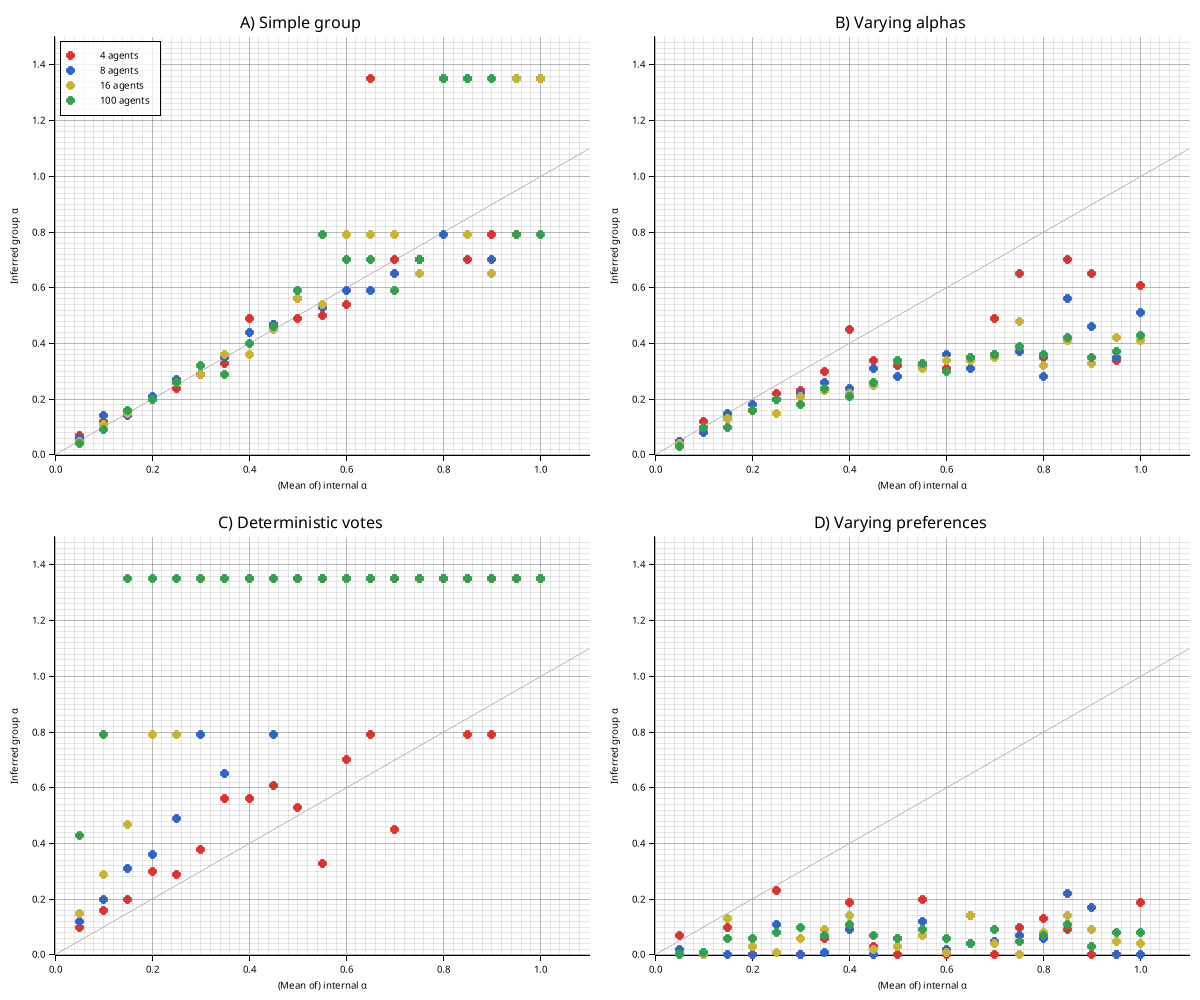
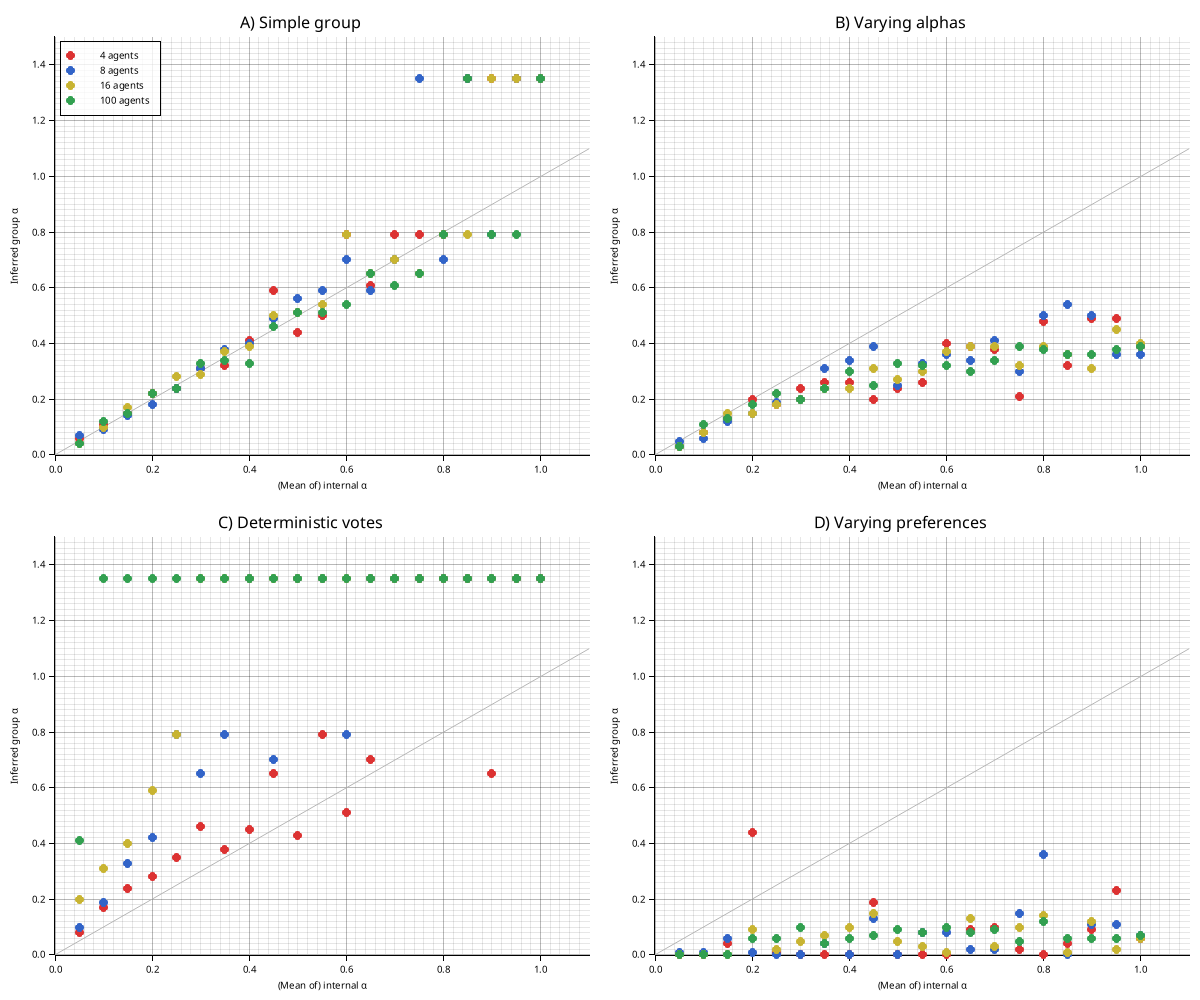
chore(release): aif 0.10.0
CHANGELOG 0.10.0 entry (with koalisi migration notes), version bump,
CLAUDE.md engine-surface/test-count updates (141 tests), figures
regenerated under 0.10.0 with README provenance refreshed. Reproduce
runtime re-measured at ~30s (main measures the same on this machine -
the old ~16s figure was stale machine conditions, not a regression).

Claude-Session: https://claude.ai/code/session_01AiegN8ShVGvqkXvCZy8M61

diff --git a/CLAUDE.md b/CLAUDE.md
@@ -28,8 +28,10 @@ Four paper experiments reproduced (Figures 4-5) plus CW comparison (Figure 6).
 Now a **Cargo workspace** (`crates/aif` engine + `crates/reproduce` harness) serving as
 the reference active-inference engine for the koalisi coalition runtime, which consumes
 the coalition-value primitive `competence_efe` and, since koalisi's K4-v3 arm, builds a
-multi-modality `GenerativeModel` directly (koalisi pins git tag `aif-v0.9.0`, the
-current release — **the canonical-AIF parity roadmap is complete**: #12 (multi-factor,
+multi-modality `GenerativeModel` directly (koalisi pins git tag `aif-v0.9.0`; the
+current release is `aif-v0.10.0` — #10 seed API, #21 B-novelty, #3/#6 hardening —
+which unblocks the koalisi #44 persistent stochastic-B arm. **The canonical-AIF
+parity roadmap is complete**: #12 (multi-factor,
 multi-modality, injectable B via `GenerativeModel`/`from_model`), #15 (opt-in marginal
 message passing), #16 (surfaced F), #13 (full pA/pB/pD/pE learning with η/ω, novelty
 EFE term, parameter free energies) + the #4 group-learning wiring fix, and #14 (opt-in
@@ -39,8 +41,8 @@ to the scalar `competence_efe` bridge — G affine in covered-bit count under bi
 coverage + deterministic B — verdict `FALSIFIED (multimodality)`; a live-info-gain
 persistent-agent v4 is parked as koalisi #44).
 
-- **130 tests** (129 `#[test]` + 1 doctest), 0 clippy warnings (default lints), edition 2024
-- `cargo run --release -p reproduce --bin reproduce` — full reproduction in ~16s
+- **141 tests** (140 `#[test]` + 1 doctest), 0 clippy warnings (default lints), edition 2024
+- `cargo run --release -p reproduce --bin reproduce` — full reproduction in ~30s
 
 ## Module map
 
@@ -49,11 +51,11 @@ is the paper-reproduction harness and depends on `aif`.
 
 | File | Contents |
 |------|----------|
-| `crates/aif/src/agent.rs` | `Agent` trait, `CopyAgent`, `POMDPAgent` — fully factorized internals since 0.6.0: `GenerativeModel` + `AgentParams` + `from_model()` (multi-factor states, multi-modality observations, injectable per-factor-per-control B, `n_actions` decoupled), little-endian joint flattening (factor 0 fastest), mean-field state inference (single-factor short-circuits to exact one-pass Bayes), `efe_step()` neg-G, `expected_free_energy()` scalar accessor, shared `policy_posterior()`, α/γ separation, multi-step policies over joint controls, per-modality pA→A learning, `act_multi`/`action_probabilities_multi`, `action_probabilities()` replay, input validation. `new()`/`with_params()` build the 1-factor/1-modality MAB special case (numerics bit-identical to pre-0.6.0). 0.7.0: `StateInference` (MeanField default / opt-in MMP over trajectory windows, Smith Eq. 23), `variational_free_energy()`, `policy_free_energies()`, `bma_state_belief()`, `reset_window()`. 0.8.0: full learning surface — `learn_b/d/e` + concentration scales `initial_precision_b/d/e`, per-step `eta`/`omega` (defaults 1.0 bit-identical), novelty EFE term (`use_param_info_gain`, Smith Eq. 39–40), `parameter_free_energies()` (Dirichlet KL vs trial start, backed by private `special.rs` lgamma/digamma), learning-aware `action_probabilities` (replays the flag-selected generation path), MMP+learn_a lifted. 0.9.0: `PrecisionDynamics` (opt-in Table-2 γ/β loop, requires MMP; `beta()`, `gamma_trajectory()`), per-policy future-τ windows → genuinely per-policy `policy_free_energies()`, BMA write-back under dynamics |
-| `crates/aif/src/group.rs` | `VotingMode` enum (Probabilistic/Deterministic/CertaintyWeighted), `VotingAgent` (discrete votes + confidence-weighted distribution mixing), `GroupAgent` (Markov blanket: sensory→internal→active), `GroupAgentBuilder` (0.8.0: `initial_precision` setter makes `learn_a(true)` groups buildable; CW branch learns via the learning-aware replay path — #4) |
+| `crates/aif/src/agent.rs` | `Agent` trait, `CopyAgent`, `POMDPAgent` — fully factorized internals since 0.6.0: `GenerativeModel` + `AgentParams` + `from_model()` (multi-factor states, multi-modality observations, injectable per-factor-per-control B, `n_actions` decoupled), little-endian joint flattening (factor 0 fastest), mean-field state inference (single-factor short-circuits to exact one-pass Bayes), `efe_step()` neg-G, `expected_free_energy()` scalar accessor, shared `policy_posterior()`, α/γ separation, multi-step policies over joint controls, per-modality pA→A learning, `act_multi`/`action_probabilities_multi`, `action_probabilities()` replay, input validation. `new()`/`with_params()` build the 1-factor/1-modality MAB special case (numerics bit-identical to pre-0.6.0). 0.7.0: `StateInference` (MeanField default / opt-in MMP over trajectory windows, Smith Eq. 23), `variational_free_energy()`, `policy_free_energies()`, `bma_state_belief()`, `reset_window()`. 0.8.0: full learning surface — `learn_b/d/e` + concentration scales `initial_precision_b/d/e`, per-step `eta`/`omega` (defaults 1.0 bit-identical), novelty EFE term (`use_param_info_gain`, Smith Eq. 39–40), `parameter_free_energies()` (Dirichlet KL vs trial start, backed by private `special.rs` lgamma/digamma), learning-aware `action_probabilities` (replays the flag-selected generation path), MMP+learn_a lifted. 0.9.0: `PrecisionDynamics` (opt-in Table-2 γ/β loop, requires MMP; `beta()`, `gamma_trajectory()`), per-policy future-τ windows → genuinely per-policy `policy_free_energies()`, BMA write-back under dynamics. 0.10.0: `AgentParams::seed` + `reseed(u64)` (unseeded = entropy, bit-identical), `use_b_info_gain` B-novelty (pymdp `calc_pB_info_gain`, `pb > 0` mask, per-factor `next·W_B·prev` on the policy's control; a_novelty floor → same mask), `update_a` skips the MeanField t=0 obs (MMP t=0 learning retained), pA precondition centralized in `validate_agent_params` |
+| `crates/aif/src/group.rs` | `VotingMode` enum (Probabilistic/Deterministic/CertaintyWeighted), `VotingAgent` (discrete votes + confidence-weighted distribution mixing), `GroupAgent` (Markov blanket: sensory→internal→active), `GroupAgentBuilder` (0.8.0: `initial_precision` setter makes `learn_a(true)` groups buildable; CW branch learns via the learning-aware replay path — #4; 0.10.0: `.seed()` reseeds every internal agent — full-pipeline determinism in ALL voting modes, streams voter = `s`, group = `s + 0x9E37_79B9`, internal i = `s + 1 + i`) |
 | `crates/aif/src/coalition.rs` | `competence_efe()` + `ObsPrecisionParams` — the reusable coalition-**value** primitive (scalar competence `c∈[0,1]` → observation precision → G; the supported bridge for downstream value calculators). `ObsPrecisionParams.transition_noise` (0.6.0, default 0.0) opts into a stochastic-B bridge POMDP so G includes the live info-gain term (note: G *rises* with noise over most of the competence range — pragmatic blurring dominates; competence monotonicity preserved). Default-parameter anchors: `G(0)=1.204, G(0.5)=0.710, G(1)=0.215`. `TrustBeliefs`/`CompatibilityBeliefs`/`CoalitionHistory` + `belief_weighted_preference()`. `CoalitionEvaluator`/`CapabilityProvider` **removed in 0.6.0** (#1) |
 | `crates/aif/src/communication.rs` | `CommunicationChannel` (flume), `Message`, `MessageContent`, `CommunicatingPOMDPAgent` — used by multi-agent tests, not by the group-agent pipeline |
-| `crates/aif/src/lib.rs` | `AifError`, re-exports of the engine + coalition surface |
+| `crates/aif/src/lib.rs` | `AifError` (0.10.0: `InvalidLength { expected, got }` for length/dimension mismatches; `InvalidAction` retained for genuine out-of-range actions/votes), re-exports of the engine + coalition surface |
 | `crates/reproduce/src/lib.rs` | `BanditEnvironment`, `SharedBanditEnvironment` (with `agents_acted` tracking), `Environment`/`MultiAgentEnvironment` traits, re-exports from `aif` + simulation |
 | `crates/reproduce/src/simulation.rs` | `run_group_simulation()`, `run_single_simulation()`, `log_likelihood()`, `log_likelihood_learning()` (0.8.0 — replay that relearns A), `recover_alpha()` (grid search, half-normal prior), experiment factories for 5 experiments, `dirichlet_alphas()`, `beta_preferences()` |
 | `crates/reproduce/src/plotter.rs` | `plotters`-based scatter/panel helpers — currently unused by the binary (which carries its own copies); consolidation tracked in issues |
@@ -67,7 +69,7 @@ is the paper-reproduction harness and depends on `aif`.
 - **VotingMode** governs how the active agent aggregates internal agent outputs. `Probabilistic` and `Deterministic` use discrete votes (original paper). `CertaintyWeighted` uses full action distributions weighted by `exp(-entropy)` — confident agents dominate the mixture.
 - **GroupAgent implements Agent** — the same recovery pipeline (record blanket states → `recover_alpha`) applies to single agents and groups. Note: `run_group_simulation`/`run_single_simulation` currently take concrete types, not `impl Agent` — the trait-level polymorphism that extensions 4/8 need is designed but not yet expressed in the runner signatures.
 - **B × state_belief** (not B^T) — deterministic MAB transitions produce delta-function priors. The EFE step function `efe_step()` and `infer_states()` both use the same convention.
-- **Learning propagates across all four model surfaces (0.8.0)** — Dirichlet counts (pA/pB/pD/pE) accumulate per step as `pX ← ω·pX + η·increment` and write back column-normalized into A/B/D/E, so the learned model actually changes behavior. ω is **per-step** (pymdp convention; the paper's trial-indexed Eq. 34/36 is recovered exactly for pD, which updates once per trial). Each update reads the *entering* model (pD before pA — trial-boundary semantics). B/E update forms are pymdp/SPM conventions (the paper only says "analogous"). Novelty (Eq. 39–40) is opt-in via `use_param_info_gain` (SPM auto-enables; default-off preserves numerics); B-novelty deferred. `action_probabilities`/`_multi` honor `learn_*` flags since 0.8.0 — they replay the flag-selected generation path (this is what makes CW groups learn and `log_likelihood_learning` exact).
+- **Learning propagates across all four model surfaces (0.8.0)** — Dirichlet counts (pA/pB/pD/pE) accumulate per step as `pX ← ω·pX + η·increment` and write back column-normalized into A/B/D/E, so the learned model actually changes behavior. ω is **per-step** (pymdp convention; the paper's trial-indexed Eq. 34/36 is recovered exactly for pD, which updates once per trial). Each update reads the *entering* model (pD before pA — trial-boundary semantics). B/E update forms are pymdp/SPM conventions (the paper only says "analogous"). Novelty (Eq. 39–40) is opt-in via `use_param_info_gain` (SPM auto-enables; default-off preserves numerics); B-novelty shipped 0.10.0 behind the separate `use_b_info_gain` flag (pymdp `calc_pB_info_gain` form, `pb > 0` zero-mask — a_novelty uses the same mask since 0.10.0, replacing the 1e-10 floor; deterministic-B B-novelty is exactly 0). Since 0.10.0 `update_a` skips the t=0 observation under MeanField (inference discards it — beliefs reset to D); under MMP the smoothed t=0 obs still counts. `action_probabilities`/`_multi` honor `learn_*` flags since 0.8.0 — they replay the flag-selected generation path (this is what makes CW groups learn and `log_likelihood_learning` exact).
 - **EFE sign convention** — `efe_step()` returns *neg-G* (higher = more preferred); the public `expected_free_energy()` returns `G = −E_q(π)[neg_g]` (LOWER = better, standard active inference). `expected_free_energy` is policy-posterior weighted, so the effect of a preference shift on G is **conditional on the observation model**: under a *discriminative* obs model an agent can route around a preference conflict by selecting a different arm, so preference shifts alone may not move G; under a *low-discriminability / uniform* obs model that escape hatch is gone and preference shifts DO move G. Preference **sharpness** (not direction) moves G even under a discriminative obs model (audit 2026-07-06). This membership-blindness + sharpness-sensitivity is why the preference-based `CoalitionEvaluator` was removed in 0.6.0 (#1) — `competence_efe` makes membership vary the *observation model* instead.
 - **Epistemic term is live for injectable B (0.6.0)** — `efe_step()` computes the exact MI `H[q(o|π)] − E_q(s′)[H(o|s′)]`; it is nonzero for any stochastic B supplied via `GenerativeModel`/`from_model`. It remains zero for the MAB constructions (`new()`/`with_params()` build deterministic B — paper-faithful, the paper's agents are purely pragmatically driven) and for `competence_efe` at the default `transition_noise = 0.0`. With `transition_noise > 0` the bridge G includes info gain, but net G *rises* with noise over most of the competence range (pragmatic blurring dominates) — an exploration-aware modeling choice, not a score bonus.
 - **`initial_belief` sets the D-vector** (state prior / initial `state_belief`), not E. The E-vector is always the uniform policy prior (overridden only by `with_params` for policy_depth > 1).

diff --git a/CHANGELOG.md b/CHANGELOG.md
@@ -2,6 +2,58 @@
 
 ## [Unreleased]
 
+## [0.10.0] - 2026-07-17
+
+Full-mode seeded determinism ([#10](https://github.com/sustia-llc/tira/issues/10)),
+the B-novelty EFE term ([#21](https://github.com/sustia-llc/tira/issues/21)), and the
+deferred error/learning hardening ([#3](https://github.com/sustia-llc/tira/issues/3),
+[#6](https://github.com/sustia-llc/tira/issues/6)). Unblocks the koalisi #44
+persistent stochastic-B arm (a sampling `POMDPAgent` is now seedable).
+
+### Added
+- **`AgentParams::seed: Option<u64>`** and **`POMDPAgent::reseed(u64)`** — seed the
+  action-sampling RNG at construction or after. `None`/unseeded stays entropy-seeded
+  (bit-identical to 0.9.0). `GroupAgentBuilder::seed` now also reseeds every internal
+  agent (voter = `s`, group RNG = `s + 0x9E37_79B9`, internal agent i = `s + 1 + i`,
+  wrapping), so seeded groups are deterministic in **all** voting modes, not just
+  `CertaintyWeighted`.
+- **`AgentParams::use_b_info_gain`** — opt-in B-novelty (transition-model parameter
+  info gain) EFE term, convention-pinned to pymdp `calc_pB_info_gain` (the paper gives
+  no B form, Smith L1057): `W_B = ½(pb^{⊙−1} − colsum^{⊙−1})` masked to `pb > 0`,
+  contracted against the predicted coincidence `s_{t+1} ⊗ s_t` per factor for the
+  policy's control, added to neg-G. Requires `learn_b`. Deliberately a separate flag
+  from `use_param_info_gain` (pymdp gates both under one flag). Deterministic-B
+  agents get exactly 0.
+- **`AifError::InvalidLength { expected, got }`** — length/dimension mismatches no
+  longer overload `InvalidAction(len)`; `InvalidAction` is retained for genuine
+  out-of-range action/vote values. Emptiness/missing-prior preconditions became
+  descriptive `InvalidDistribution` messages; compound A/B dimension checks report
+  the actually-offending dimension.
+
+### Changed
+- **`a_novelty` zero handling: 1e-10 floor → pymdp `pa > 0` mask.** The paper anchors
+  (0.505 / 0.00505) are bit-identical (their pA entries are ≥ 0.25); behavior differs
+  only for pA entries in `[0, 1e-10)`, where the floor injected spurious ~1e10 terms.
+- **`update_a` skips the t=0 observation under MeanField** — MeanField inference
+  discards the t=0 observation (beliefs reset to D), so learning no longer counts it.
+  Under MMP the t=0 observation is smoothed into the window and learning from it is
+  retained (deliberate refinement of #6, which predates 0.8.0 MMP learning). Five
+  MeanField learning tests re-anchored; `test_defaults_bit_identical_with_new_params`
+  now pins the derived discriminative-A anchor `pa[0] = [[1.9, 1.1], [1.0, 1.0]]`
+  (the old 2.0/2.0 was an artifact of the spurious t=0 A-flattening).
+- `policy_posterior`/`precision_loop` E-vector index-overflow fallbacks (`e_i = 1.0`)
+  replaced with direct indexing + `debug_assert` (invariant: `e_vector` is always
+  `n_actions^policy_depth`).
+- The `learn_a`/`initial_precision` precondition moved into `validate_agent_params`
+  (deferred by PRs #17/#19 to this cleanup); message unchanged.
+
+### Migration (koalisi)
+- Two new `AgentParams` fields (`seed`, `use_b_info_gain`) — construction via
+  `..Default::default()` compiles unchanged.
+- Any `match` on `AifError::InvalidAction` for length errors must move to
+  `InvalidLength { expected, got }`.
+- `competence_efe` anchors unchanged: `G(0)=1.204, G(0.5)=0.710, G(1)=0.215`.
+
 ## [0.9.0] - 2026-07-16
 
 Policy precision dynamics (parity roadmap item 3, the final item —

diff --git a/README.md b/README.md
@@ -41,7 +41,7 @@ All four qualitative findings from the paper are reproduced, plus an extension:
 | 4 | Varying preferences (Beta) | Strongly reduced group α | Crushed near 0 |
 | 5 | Certainty-weighted voting | More faithful average (§4.1) | Closer to identity than Exp 2 |
 
-*Figures below were generated by the current release (aif 0.9.0, 2026-07-16). The bandit
+*Figures below were generated by the current release (aif 0.10.0, 2026-07-17). The bandit
 environment is unseeded ([issue #2](https://github.com/sustia-llc/tira/issues/2)), so the
 exact scatter varies per regeneration — the reproduced claims are the qualitative shapes.*
 
